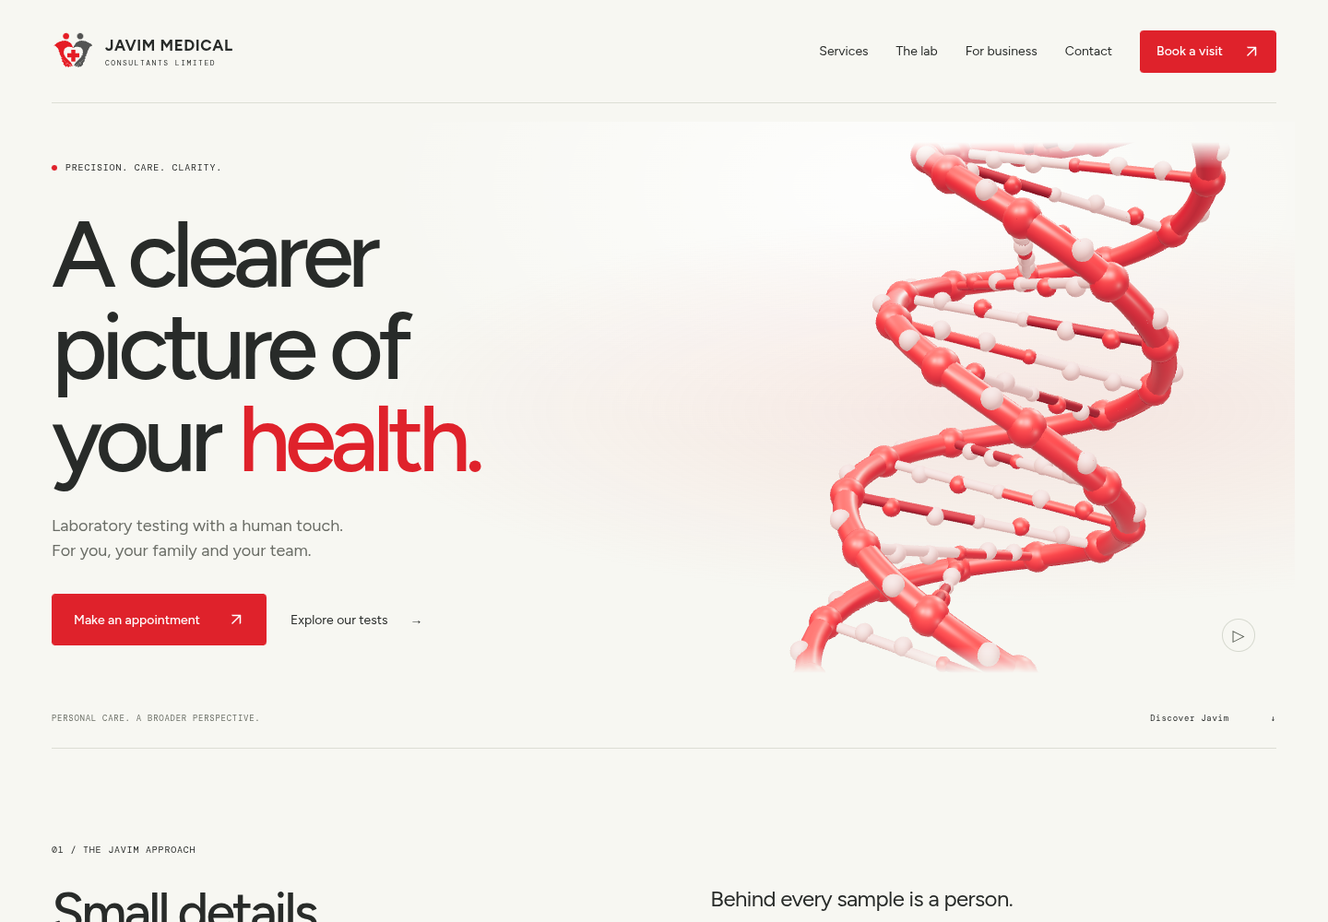
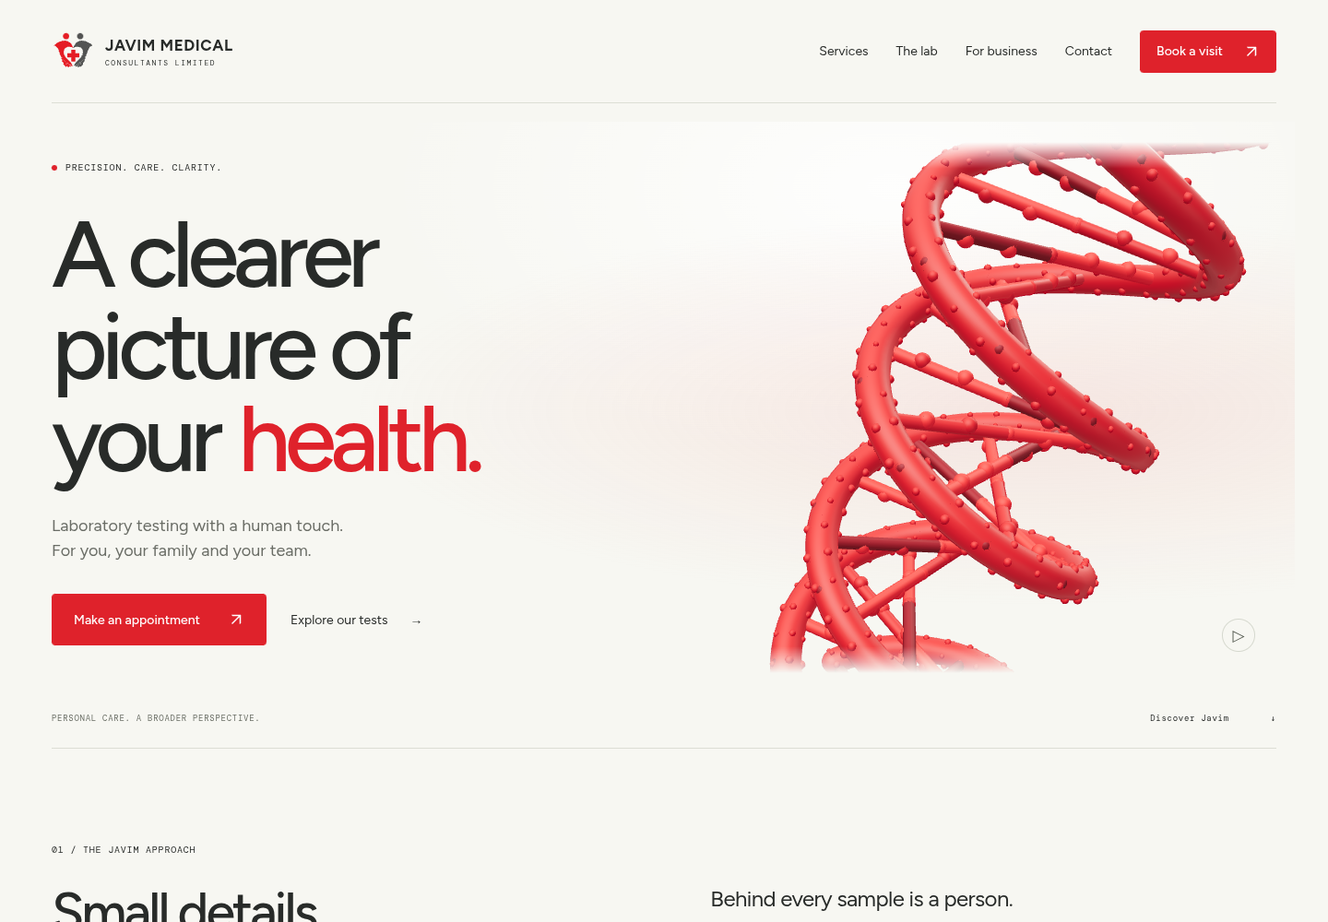
Add detailed red DNA and consistent WhatsApp green styling

Changed region(s): [[0.5625, 0.155, 0.9375, 0.744]]

diff --git a/src/main.js b/src/main.js
@@ -9,7 +9,7 @@ import {departments, allTests, bookingTypes, whatsapp, systems, matchesTest, saf
 const arrowIcon = '<svg class="arrow-icon" viewBox="0 0 16 16" fill="none" aria-hidden="true"><path d="M4 12 12 4M4 4h8v8" stroke="currentColor" stroke-width="1.4"/></svg>';
 const arrow = arrowIcon;
 const brand = `<a class="brand" href="/" aria-label="Javim Medical Consultants Limited — home"><img src="/assets/javim-mark.svg" alt="" width="48" height="44"><span>JAVIM MEDICAL<small>CONSULTANTS LIMITED</small></span></a>`;
-const waLink = (label, message, classes='text-link') => `<a class="${classes}" href="${whatsapp(message)}" target="_blank" rel="noopener noreferrer">${label} ${arrow}</a>`;
+const waLink = (label, message, classes='text-link') => `<a class="${classes} whatsapp-link" href="${whatsapp(message)}" target="_blank" rel="noopener noreferrer">${label} ${arrow}</a>`;
 const isServices = location.pathname.replace(/\/$/, '') === '/services';
 const isPrivacy = location.pathname.replace(/\/$/, '') === '/privacy';
 const homeAnchor = id => isServices || isPrivacy ? `/#${id}` : `#${id}`;
@@ -17,7 +17,7 @@ const departmentRows = (full=false) => departments.map((d,i)=> `<details class="
 function testRow(t) { return `<div class="test-row" data-test-name="${t.name}"><div><h3>${t.name}</h3>${t.alias?`<span class="alias">${t.alias}</span>`:''}<p>${t.description}</p></div><div class="test-action"><span class="sample">${t.sample}</span><a href="${whatsapp(`Hello Javim Medical, I would like to enquire about ${t.name}. Please share pricing, turnaround time and preparation requirements.`)}" target="_blank" rel="noopener noreferrer" aria-label="Enquire about ${t.name}">Enquire ↗</a></div></div>`; }
 const header = `<a class="skip-link" href="#main">Skip to content</a><header class="header wrap">${brand}<button class="menu-toggle" aria-label="Open navigation" aria-expanded="false" aria-controls="navigation">Menu <span aria-hidden="true">＋</span></button><nav id="navigation" aria-label="Main navigation"><a href="/services" ${isServices?'aria-current="page"':''}>Services</a><a href="${homeAnchor('about')}">The lab</a><a href="${homeAnchor('corporate')}">For business</a><a href="${homeAnchor('contact')}">Contact</a><button class="button button-small" data-book>Book a visit ${arrow}</button></nav></header>`;
 const footer = `<footer class="footer wrap"><div class="footer-top">${brand}<p>Thoughtful care.<br>Clearer answers.</p>${waLink('Let’s talk')}</div><div class="footer-bottom"><span>© ${new Date().getFullYear()} Javim Medical Consultants Limited</span><a href="/privacy">Privacy</a><span>Nairobi, Kenya <span class="red-dot"></span></span></div></footer>`;
-const booking = `<dialog id="booking-dialog" aria-labelledby="booking-title" class="booking-dialog"><div class="dialog-head"><span class="eyebrow">YOUR NEXT STEP</span><button class="close-dialog" aria-label="Close booking">×</button></div><h2 id="booking-title">Make time<br>for your health.</h2><p class="muted">Choose what you need. We’ll take it from here.</p><div class="booking-options">${bookingTypes.map((b,i)=>{const url=safeCalUrl(b.calUrl);return `<a href="${url || whatsapp(b.message)}" target="_blank" rel="noopener noreferrer"><span class="index">0${i+1}</span><div><h3>${b.name}</h3><p>${b.description}</p><span class="alias">${url?'CHOOSE A TIME ON CAL.COM':'ARRANGE VIA WHATSAPP'}</span></div>${arrow}</a>`}).join('')}</div><p class="booking-note">Pricing, preparation and collection arrangements are confirmed by our team. Please avoid sending sensitive medical information in your initial enquiry.</p></dialog>`;
+const booking = `<dialog id="booking-dialog" aria-labelledby="booking-title" class="booking-dialog"><div class="dialog-head"><span class="eyebrow">YOUR NEXT STEP</span><button class="close-dialog" aria-label="Close booking">×</button></div><h2 id="booking-title">Make time<br>for your health.</h2><p class="muted">Choose what you need. We’ll take it from here.</p><div class="booking-options">${bookingTypes.map((b,i)=>{const url=safeCalUrl(b.calUrl);return `<a href="${url || whatsapp(b.message)}" target="_blank" rel="noopener noreferrer"><span class="index">0${i+1}</span><div><h3>${b.name}</h3><p>${b.description}</p><span class="alias">${url?'CHOOSE A TIME ON CAL.COM':'<span class="whatsapp-text">ARRANGE VIA WHATSAPP</span>'}</span></div>${arrow}</a>`}).join('')}</div><p class="booking-note">Pricing, preparation and collection arrangements are confirmed by our team. Please avoid sending sensitive medical information in your initial enquiry.</p></dialog>`;
 const hero = `<section class="hero wrap" aria-labelledby="hero-title"><div class="hero-copy"><div class="eyebrow"><span class="red-dot"></span> PRECISION. CARE. CLARITY.</div><h1 id="hero-title">A clearer<br>picture of<br>your <em>health.</em></h1><p>Laboratory testing with a human touch.<br>For you, your family and your team.</p><div class="hero-actions"><button class="button" data-book>Make an appointment ${arrow}</button><a class="text-link" href="/services">Explore our tests <span aria-hidden="true">→</span></a></div></div><div class="hero-visual"><div id="medical-scene" role="group" aria-label="Interactive DNA helix illustrating laboratory science"><div class="scene-fallback"><svg xmlns="http://www.w3.org/2000/svg" viewBox="0 0 320 500" fill="none" aria-hidden="true"><g stroke="#df222b" stroke-width="10" stroke-linecap="round"><path d="M110 30c160 70-60 120 100 190s-60 120 0 250M210 30C50 100 270 150 110 220s60 120 0 250"/></g><g stroke="#d78689" stroke-width="3"><path d="m110 30 100 0M150 60h20M135 95h50M100 130h120M130 165h60M150 195h20M110 225h100M140 260h40M150 295h20M100 330h120M130 365h60M150 400h20M110 435h100M110 470h100"/></g></svg></div></div><div class="scene-bottom"><button id="motion-toggle" class="motion-toggle" aria-label="Pause animation" aria-pressed="false"><span aria-hidden="true">Ⅱ</span></button></div></div><div class="hero-foot"><span>PERSONAL CARE. A BROADER PERSPECTIVE.</span><a href="#services">Discover Javim <span aria-hidden="true">↓</span></a></div></section>`;
 const about = `<section id="about" class="about-section wrap section"><div class="eyebrow">01 / THE JAVIM APPROACH</div><div class="about-grid"><h2>Small details.<br>Meaningful answers.</h2><div><p class="large-copy">Behind every sample is a person.<br>That’s where our work begins.</p><p class="muted">Javim Medical Consultants Limited brings together diagnostic testing and personal service in Nairobi. From a routine check to a more specific investigation, our team helps you understand the next step.</p><details class="quiet-details"><summary>Get to know the lab <span aria-hidden="true">+</span></summary><div><p>Our services span haematology, clinical chemistry, immunoassays and hormones, serology, microbiology, parasitology, and histology and cytology.</p><p>Whether you live locally or are visiting Kenya, speak directly with our team about test availability, sample requirements, pricing and turnaround times.</p></div></details></div></div><div class="principles"><div><span class="index">01</span><h3>Care that listens.</h3><p>A direct conversation with our team.</p></div><div><span class="index">02</span><h3>Testing made simpler.</h3><p>Guidance from enquiry to your visit.</p></div><div><span class="index">03</span><h3>Clarity at every step.</h3><p>Preparation, pricing and timing explained.</p></div></div></section>`;
 const serviceSection = `<section id="services" class="services-section section wrap"><div class="section-heading"><div><span class="eyebrow">02 / OUR SERVICES</span><h2>A world of insight.<br>A simple place to start.</h2></div><p class="muted">Seven areas of diagnostic testing.<br>Open a category to find what you need.</p></div><div class="department-list">${departmentRows()}</div><div class="section-tail"><span class="muted">Already know the test you need?</span><a class="text-link" href="/services">Search the full catalogue <span aria-hidden="true">→</span></a></div></section>`;
@@ -26,7 +26,7 @@ const explorer = `<section id="explore" class="explorer-section section"><div cl
 const corporate = `<section id="corporate" class="corporate-section section wrap"><div class="eyebrow">04 / FOR YOUR TEAM</div><div class="corporate-grid"><h2>Healthy people.<br>Stronger teams.</h2><div><p class="large-copy">A laboratory partner<br>for your business.</p><p class="muted">Employee wellness testing and pre-employment screening, arranged around your organisation’s needs.</p><details class="quiet-details"><summary>Explore corporate partnerships <span aria-hidden="true">+</span></summary><div><p>Speak with our team about group size, required tests and scheduling. We’ll discuss a suitable arrangement, including pricing, preparation and ongoing testing needs.</p></div></details>${waLink('Discuss a partnership','Hello Javim Medical, I would like to discuss corporate testing for my organisation.','text-link corporate-link')}</div></div></section>`;
 const contact = `<section id="contact" class="contact-section"><div class="wrap contact-grid"><div><span class="eyebrow">05 / LET’S CONNECT</span><h2>Your next step<br>starts here.</h2><button class="button button-light" data-book>Book an appointment ${arrow}</button>${waLink('Or speak to us on WhatsApp',undefined,'contact-wa')}</div><div class="contact-info"><details open><summary>Visit the lab <span aria-hidden="true">+</span></summary><div><p>South C Shopping Centre<br>Nairobi, Kenya</p><a href="https://www.google.com/maps/search/?api=1&query=South+C+Shopping+Centre+Nairobi" target="_blank" rel="noopener noreferrer">Get directions ↗</a></div></details><details><summary>Opening hours <span aria-hidden="true">+</span></summary><div><p>Monday – Friday <span>9:00 AM – 6:00 PM</span><br>Saturday <span>9:00 AM – 4:00 PM</span></p><p class="contact-note">East Africa Time (UTC+3).<br>Closed Sundays & public holidays.</p></div></details><details><summary>Call or email <span aria-hidden="true">+</span></summary><div><a href="tel:+254114793610">0114 793 610</a><a href="mailto:javimops@outlook.com">javimops@outlook.com</a></div></details></div></div></section>`;
 const servicesPage = `<section class="catalogue-page wrap"><div class="eyebrow"><span class="red-dot"></span> OUR SERVICES</div><h1>Find your<br><em>next answer.</em></h1><p class="large-copy">Explore our laboratory tests.<br>Ask our team about preparation, pricing and timing.</p><div class="search-bar"><label for="test-search">Search tests</label><div><span aria-hidden="true">⌕</span><input id="test-search" type="search" placeholder="Try HbA1c, thyroid or kidney…" autocomplete="off"><button id="clear-search" aria-label="Clear search" hidden>×</button></div></div><div class="filter-list" role="group" aria-label="Filter by department"><button data-filter="all" class="active" aria-pressed="true">All tests</button>${departments.map(d=>`<button data-filter="${d.id}" aria-pressed="false">${d.name}</button>`).join('')}</div><p id="results-count" class="eyebrow" role="status" aria-live="polite">${allTests.length} TESTS / 7 SERVICE GROUPS</p><div id="catalogue-results">${departmentRows(true)}</div><div class="catalogue-help"><h2>Not sure where to start?</h2><p class="muted">Share the test name or your clinician’s request. Our team can confirm availability, pricing and preparation.</p>${waLink('Ask the team')}</div></section>`;
-const privacy = `<article class="privacy-page wrap"><span class="eyebrow">YOUR PRIVACY</span><h1>Care includes<br><em>your privacy.</em></h1><p>This website provides information about Javim Medical Consultants Limited and links to our team and appointment services.</p><h2>Website use</h2><p>We do not provide a medical-record upload form or use analytics or advertising trackers on this website. Our hosting provider may process technical request information such as IP addresses for delivery and security.</p><h2>Contact and booking</h2><p>WhatsApp, Cal.com (when enabled) and Google Maps are external services with their own privacy policies. They receive information when you follow a link to use them. Please avoid sharing sensitive health details in an initial booking enquiry.</p><h2>Medical information</h2><p>Ask our team how patient information, specimens and laboratory results are handled before submitting medical information. This website notice does not replace the laboratory’s patient-data policy.</p><h2>Questions</h2><p>Contact <a href="mailto:javimops@outlook.com">javimops@outlook.com</a> for privacy enquiries.</p></article>`;
+const privacy = `<article class="privacy-page wrap"><span class="eyebrow">YOUR PRIVACY</span><h1>Care includes<br><em>your privacy.</em></h1><p>This website provides information about Javim Medical Consultants Limited and links to our team and appointment services.</p><h2>Website use</h2><p>We do not provide a medical-record upload form or use analytics or advertising trackers on this website. Our hosting provider may process technical request information such as IP addresses for delivery and security.</p><h2>Contact and booking</h2><p><span class="whatsapp-text">WhatsApp</span>, Cal.com (when enabled) and Google Maps are external services with their own privacy policies. They receive information when you follow a link to use them. Please avoid sharing sensitive health details in an initial booking enquiry.</p><h2>Medical information</h2><p>Ask our team how patient information, specimens and laboratory results are handled before submitting medical information. This website notice does not replace the laboratory’s patient-data policy.</p><h2>Questions</h2><p>Contact <a href="mailto:javimops@outlook.com">javimops@outlook.com</a> for privacy enquiries.</p></article>`;
 document.querySelector('#app').innerHTML = (header + `<main id="main">${isServices?servicesPage:isPrivacy?privacy:hero+about+serviceSection+explorer+corporate+contact}</main>` + footer + booking).replaceAll('↗', arrowIcon);
 const dialog = document.querySelector('#booking-dialog');
 document.querySelectorAll('[data-book]').forEach(b=>b.addEventListener('click',()=>dialog.showModal()));

diff --git a/src/scene.js b/src/scene.js
@@ -14,7 +14,7 @@ export function mountScene(container) {
   renderer.setPixelRatio(Math.min(devicePixelRatio, innerWidth < 760 ? 1 : 1.5));
   renderer.setClearColor(0xffffff, 0);
   renderer.toneMapping = THREE.ACESFilmicToneMapping;
-  renderer.toneMappingExposure = .92;
+  renderer.toneMappingExposure = .85;
   container.appendChild(renderer.domElement);
   renderer.domElement.setAttribute('aria-hidden', 'true');
   const scene = new THREE.Scene(); // No background or fog: preserve the canvas alpha channel.
@@ -24,9 +24,9 @@ export function mountScene(container) {
   const room = new RoomEnvironment();
   scene.environment = pmrem.fromScene(room, .04).texture;
   room.dispose(); pmrem.dispose();
-  scene.add(new THREE.HemisphereLight(0xffffff, 0x735354, .75));
-  const key = new THREE.DirectionalLight(0xfff3e8, 3.1); key.position.set(-5, 5, 6); scene.add(key);
-  const fill = new THREE.DirectionalLight(0xffffff, .9); fill.position.set(4, -2, 3); scene.add(fill);
+  scene.add(new THREE.HemisphereLight(0xffffff, 0x735354, .6));
+  const key = new THREE.DirectionalLight(0xfff5ef, 2.7); key.position.set(-5, 5, 6); scene.add(key);
+  const fill = new THREE.DirectionalLight(0xffffff, .7); fill.position.set(4, -2, 3); scene.add(fill);
   const rim = new THREE.DirectionalLight(0xffd1c9, 2.2); rim.position.set(2, 3, -4); scene.add(rim);
   const controls = new OrbitControls(camera, renderer.domElement);
   controls.enableDamping = true; controls.enablePan = false; controls.enableZoom = false;
@@ -36,26 +36,38 @@ export function mountScene(container) {
 
   // Original illustrative molecular structure, with offset strands and paired bases.
   // This represents laboratory science, not an advertised genetic-testing service.
-  const surface = document.createElement('canvas'); surface.width = surface.height = 128;
-  const context = surface.getContext('2d'); const pixels = context.createImageData(128, 128);
+  // Coherent multi-scale grain avoids the smooth plastic appearance of a plain tube.
+  const surface = document.createElement('canvas'); surface.width = surface.height = 256;
+  const context = surface.getContext('2d'); const pixels = context.createImageData(256, 256);
   let seed = 17;
-  for (let i = 0; i < pixels.data.length; i += 4) {
-    seed = (seed * 1664525 + 1013904223) >>> 0;
-    const value = 120 + (seed / 4294967296) * 60;
+  const random = () => { seed = (seed * 1664525 + 1013904223) >>> 0; return seed / 4294967296; };
+  const grid = Array.from({length:33 * 33}, random);
+  const noise = (x, y, frequency) => {
+    const gx = x * frequency, gy = y * frequency;
+    const ix = Math.floor(gx), iy = Math.floor(gy);
+    const smooth = v => v * v * (3 - 2 * v);
+    const fx = smooth(gx - ix), fy = smooth(gy - iy);
+    const at = (a, b) => grid[(b % 33) * 33 + (a % 33)];
+    return (at(ix, iy) * (1 - fx) + at(ix + 1, iy) * fx) * (1 - fy) + (at(ix, iy + 1) * (1 - fx) + at(ix + 1, iy + 1) * fx) * fy;
+  };
+  for (let y = 0; y < 256; y++) for (let x = 0; x < 256; x++) {
+    const value = 45 + 170 * (noise(x / 256, y / 256, 8) * .5 + noise(x / 256, y / 256, 24) * .35 + random() * .15);
+    const i = (y * 256 + x) * 4;
     pixels.data[i] = pixels.data[i + 1] = pixels.data[i + 2] = value; pixels.data[i + 3] = 255;
   }
   context.putImageData(pixels, 0, 0);
   const texture = new THREE.CanvasTexture(surface);
   texture.wrapS = texture.wrapT = THREE.RepeatWrapping;
-  const red = new THREE.MeshPhysicalMaterial({color:0xc31529,roughness:.42,metalness:0,clearcoat:.24,clearcoatRoughness:.32,envMapIntensity:.55,bumpMap:texture,bumpScale:.025});
-  const pale = new THREE.MeshPhysicalMaterial({color:0xe4a5a2,roughness:.58,envMapIntensity:.4});
-  const deep = new THREE.MeshPhysicalMaterial({color:0x8f1826,roughness:.55,envMapIntensity:.35});
+  texture.repeat.set(5, 2);
+  const red = new THREE.MeshPhysicalMaterial({color:0xac0718,roughness:.58,metalness:0,clearcoat:.1,clearcoatRoughness:.5,envMapIntensity:.3,bumpMap:texture,bumpScale:.07});
+  const pale = new THREE.MeshPhysicalMaterial({color:0xc21924,roughness:.62,envMapIntensity:.25,bumpMap:texture,bumpScale:.04});
+  const deep = new THREE.MeshPhysicalMaterial({color:0x710916,roughness:.6,envMapIntensity:.25,bumpMap:texture,bumpScale:.04});
   const dna = new THREE.Group(); scene.add(dna);
   const height = 8.1, turns = 2.7, radius = 1.2, offset = Math.PI + .32;
   const point = (t, phase = 0) => new THREE.Vector3(Math.cos(t * turns * Math.PI * 2 + phase) * radius, (t - .5) * height, Math.sin(t * turns * Math.PI * 2 + phase) * radius);
   for (const phase of [0, offset]) {
     const points = Array.from({length:241}, (_, i) => point(i / 240, phase));
-    dna.add(new THREE.Mesh(new THREE.TubeGeometry(new THREE.CatmullRomCurve3(points), 240, .105, 14, false), red));
+    dna.add(new THREE.Mesh(new THREE.TubeGeometry(new THREE.CatmullRomCurve3(points), 240, .145, 18, false), red));
   }
   const atomGeometry = new THREE.SphereGeometry(1, 16, 12);
   const bondGeometry = new THREE.CylinderGeometry(1, 1, 1, 10);
@@ -70,23 +82,41 @@ export function mountScene(container) {
   };
   for (let i = 0; i <= 27; i++) {
     const t = i / 27, left = point(t), right = point(t, offset);
-    atom(left, .15, red); atom(right, .15, red);
+    atom(left, .135, red); atom(right, .135, red);
     const middle = left.clone().lerp(right, .5);
-    bond(left, middle, .045, i % 2 ? red : pale);
-    bond(middle, right, .045, i % 2 ? pale : deep);
+    bond(left, middle, .06, i % 2 ? red : pale);
+    bond(middle, right, .06, i % 2 ? pale : deep);
     for (let j = 1; j < 6; j++) {
       const p = left.clone().lerp(right, j / 6);
       p.y += Math.sin(j * Math.PI / 3) * .035;
-      atom(p, j === 3 ? .065 : .082, (i + j) % 3 ? pale : red);
+      atom(p, j === 3 ? .065 : .074, (i + j) % 3 ? pale : red);
     }
     for (const phase of [0, offset]) {
       const p = point(Math.min(1, t + .014), phase);
       const side = new THREE.Vector3(p.x * 1.07, p.y + .035, p.z * 1.07);
-      atom(side, .085, pale); bond(p, side, .035, red);
+      atom(side, .06, deep); bond(p, side, .035, red);
     }
   }
-  dna.rotation.set(.08, .4, -.25);
-  dna.position.x = .45;
+  // Instanced surface clusters add molecular relief with one additional draw call.
+  const clusters = new THREE.InstancedMesh(new THREE.SphereGeometry(1, 8, 6), red, 810);
+  const dummy = new THREE.Object3D(); let clusterIndex = 0;
+  for (const phase of [0, offset]) for (let i = 0; i <= 80; i++) {
+    const t = i / 80, centre = point(t, phase);
+    const tangent = point(t + .001, phase).sub(centre).normalize();
+    const normal = new THREE.Vector3(centre.x, 0, centre.z).normalize();
+    normal.addScaledVector(tangent, -normal.dot(tangent)).normalize();
+    const binormal = new THREE.Vector3().crossVectors(tangent, normal).normalize();
+    for (let j = 0; j < 5; j++) {
+      const angle = j * Math.PI * 2 / 5 + random() * .5;
+      dummy.position.copy(centre).addScaledVector(normal, Math.cos(angle) * .14).addScaledVector(binormal, Math.sin(angle) * .14);
+      dummy.scale.setScalar(.025 + random() * .018); dummy.updateMatrix();
+      clusters.setMatrixAt(clusterIndex++, dummy.matrix);
+    }
+  }
+  clusters.instanceMatrix.needsUpdate = true; dna.add(clusters);
+  const initialYaw = -.65;
+  dna.rotation.set(.15, initialYaw, -.42);
+  dna.position.x = .35;
   const media = matchMedia('(prefers-reduced-motion: reduce)');
   let paused = media.matches, visible = true, elapsed = 0, last = performance.now(), lastRender = 0, dirty = true, frame;
   const button = document.querySelector('#motion-toggle');
@@ -116,7 +146,7 @@ export function mountScene(container) {
     if (!paused) elapsed += dt;
     if ((paused && !dirty && !moved) || now - lastRender < 1000 / 30) return;
     if (!paused) {
-      dna.rotation.y = .4 + elapsed * .045;
+      dna.rotation.y = initialYaw + elapsed * .045;
       dna.position.y = Math.sin(elapsed * .2) * .09;
       // A slow studio-light drift reveals surface depth without flashing.
       key.position.x = -5 + Math.sin(elapsed * .12) * .8;

diff --git a/src/style.css b/src/style.css
@@ -22,3 +22,13 @@
 .scene-bottom{z-index:2}
 .scene-fallback svg{height:175%;max-width:none;flex-shrink:0;transform:rotate(-8deg)}
 @media(max-width:760px){.hero::before{inset:25% -10px 60px;background:radial-gradient(ellipse at 60% 68%,#eb9e962b,transparent 65%)}.scene-fallback svg{height:155%}}
+/* WhatsApp's brand green, adapted for readable text on each background. */
+:root{--whatsapp-green:#087a3b}
+.whatsapp-link,.whatsapp-text,a[href^="https://wa.me/"]{color:var(--whatsapp-green)}
+.whatsapp-link:hover,a[href^="https://wa.me/"]:hover{color:#05632e}
+.contact-section{--whatsapp-green:#25d366}
+.contact-section .whatsapp-link:hover{color:#62e992}
+.booking-options .whatsapp-text{color:var(--whatsapp-green)}
+.booking-options a[href^="https://wa.me/"] h3,.booking-options a[href^="https://wa.me/"]>.index{color:#282b29}
+.booking-options a[href^="https://wa.me/"]:hover h3{color:var(--whatsapp-green)}
+.scene-fallback svg{transform:rotate(-18deg)}

diff --git a/README.md b/README.md
@@ -28,6 +28,10 @@ Screenshots of the current implementation. The landing-page DNA scene is paused 
 
 <img src="docs/screenshots/services.png" alt="Mobile service catalogue filtered to thyroid testing" width="390" />
 
+### Booking options
+
+![Booking options with green WhatsApp labels](docs/screenshots/booking.png)
+
 ## Development
 
 Use the existing checkout at `/workspace/Javim-Medical-Consulting`. Cloud tasks are isolated; a separate Git worktree is unnecessary.
@@ -60,7 +64,7 @@ Once public Cal.com event links exist, copy `.env.example` to `.env.local` and f
 
 The supplied logo images were visible in the conversation but were not available as local downloadable files, and retrieval from the former website was blocked. The current mark is a hand-recreated SVG based on the supplied artwork, not the original vector. Replace `public/assets/javim-mark.svg` and `favicon.svg` with approved originals for launch.
 
-The landing-page DNA uses offset helical strands, paired bases, small molecular details and subtle surface grain with soft studio lighting. The helix is oversized and cropped at the top and bottom, with responsive scaling and a restrained rose light wash across the hero. A slowly drifting key light and rim highlight reveal surface depth during animation. The WebGL canvas preserves alpha, has no opaque scene background or fog, and composites directly over the light page. Its slow rotation supports pointer/touch exploration, a pause control, reduced-motion preferences, off-screen suspension and a static DNA fallback. This is an original scientific illustration, not a scientifically exact molecular model or a claim that Javim offers genetic testing. The former blood-cell/DNA switcher and technical labels have been removed from the hero.
+The landing-page DNA uses offset helical strands, paired bases, instanced molecular surface clusters and multi-scale surface grain with soft studio lighting. The helix is oversized and cropped at the top and bottom, with responsive scaling and a restrained rose light wash across the hero. A slowly drifting key light and rim highlight reveal surface depth during animation. The starting view is tilted, and all molecular materials use red shades. WhatsApp text and links use a darker brand green on light backgrounds and bright WhatsApp green on the dark contact section to preserve contrast. The starting view is tilted, and all molecular materials use red shades. WhatsApp text and links use a darker brand green on light backgrounds and bright WhatsApp green on the dark contact section to preserve contrast. The WebGL canvas preserves alpha, has no opaque scene background or fog, and composites directly over the light page. Its slow rotation supports pointer/touch exploration, a pause control, reduced-motion preferences, off-screen suspension and a static DNA fallback. This is an original scientific illustration, not a scientifically exact molecular model or a claim that Javim offers genetic testing. The former blood-cell/DNA switcher and technical labels have been removed from the hero.
 
 The anatomy explorer is an original stylized SVG with clickable and keyboard-selectable organs; it is not realistic 3D anatomy. Related tests provide service navigation, not diagnostic recommendations. No other brands' or watermarked stock imagery is included.
 
